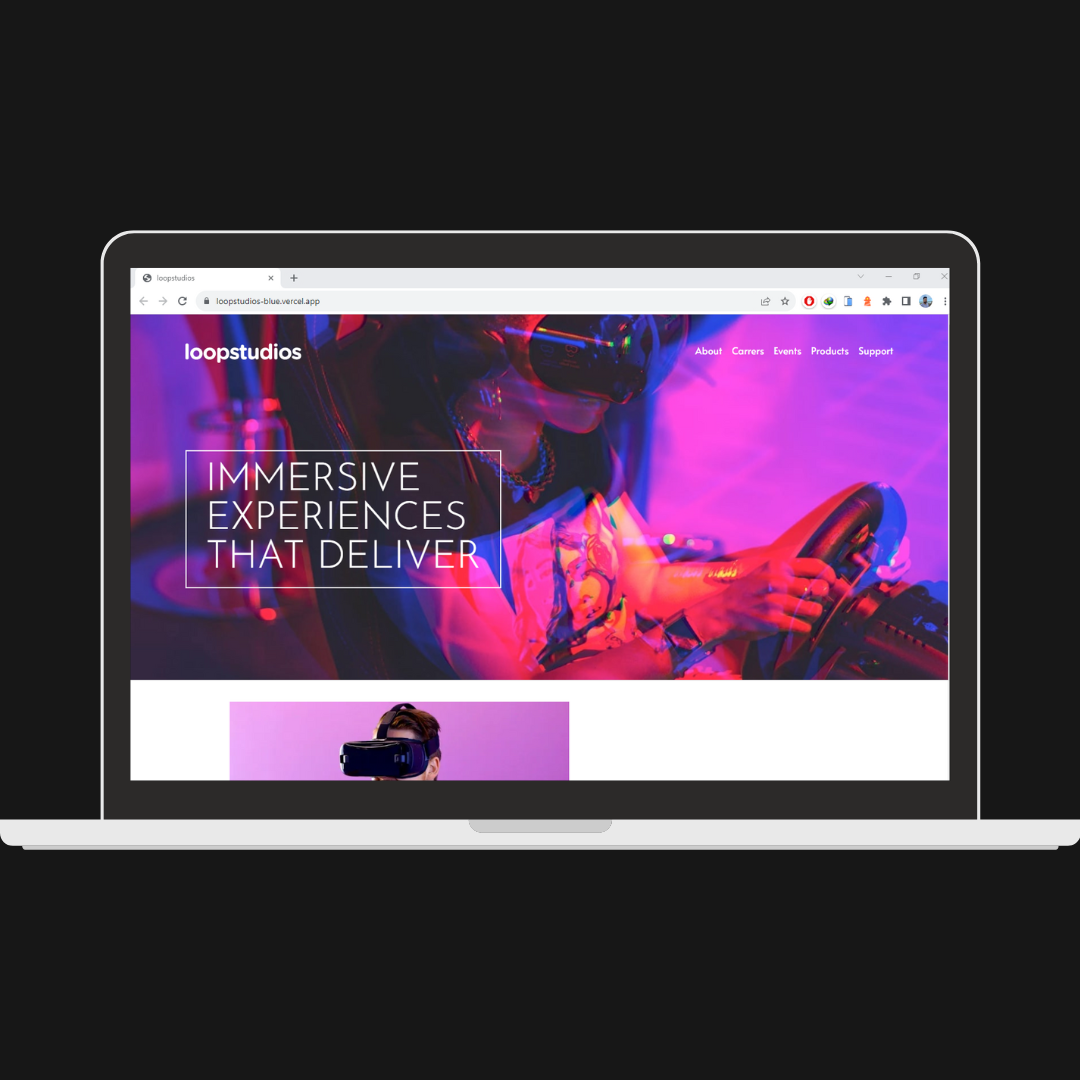
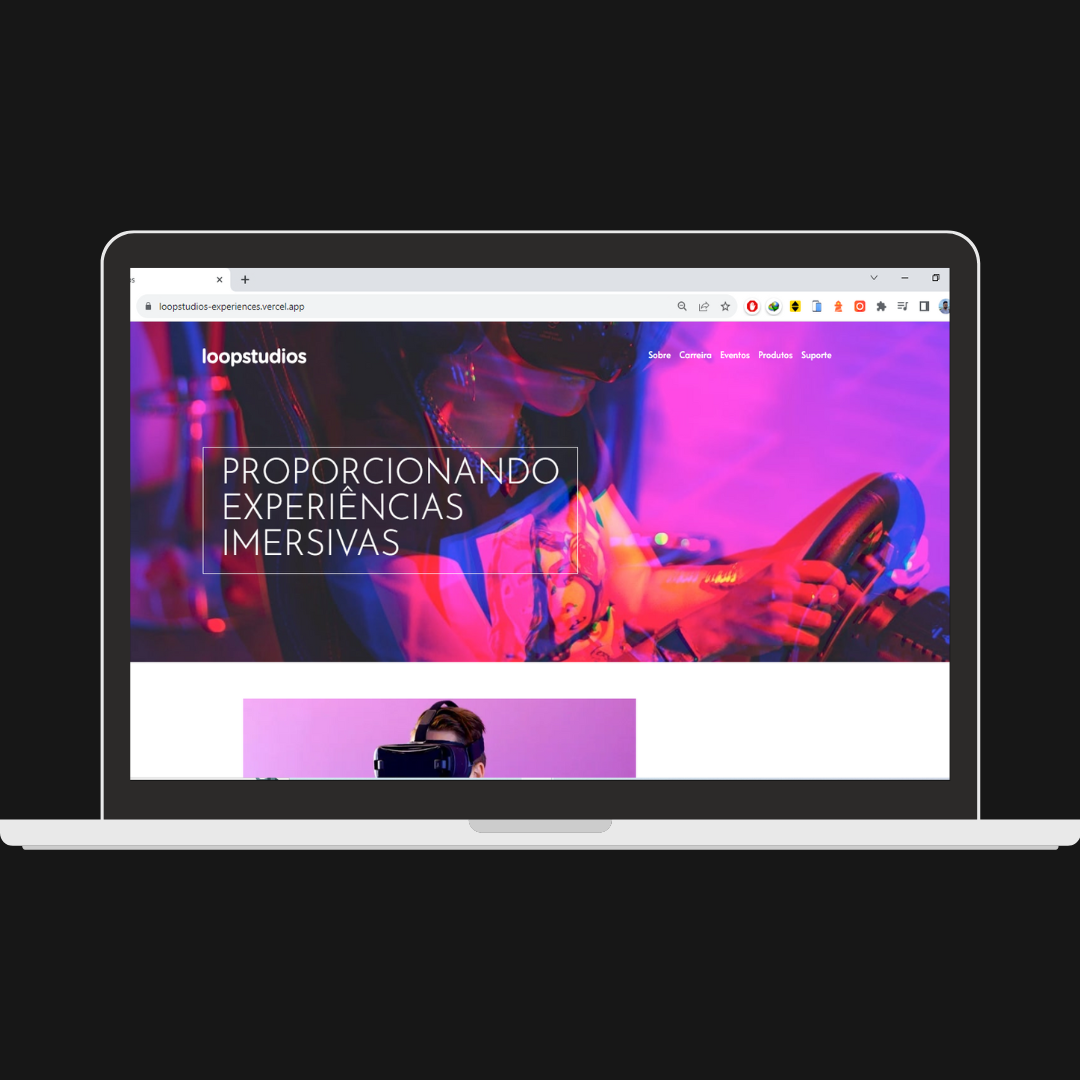
ajustando os dados do projeto loopstudios

Changed region(s): [[0.1222, 0.2444, 0.8861, 0.7333]]

diff --git a/src/mocks/projects.ts b/src/mocks/projects.ts
@@ -39,8 +39,8 @@ export const projects = [
         description: 'Landing page para empresa do nicho de desenvolvimento de experiências voltadas para realidade virtual.',
         technologies:  ['Next 13', 'TypeScript', 'Styled-Components'],
         content_side: 'right',
-        gitLink: 'https://github.com/rogeritael/loopstudios',
-        prodLink: 'https://loopstudios-blue.vercel.app/',
+        gitLink: 'https://github.com/rogeritael/loopstudios-vr',
+        prodLink: 'https://loopstudios-experiences.vercel.app/',
     },
     {
         cover: skilled,
